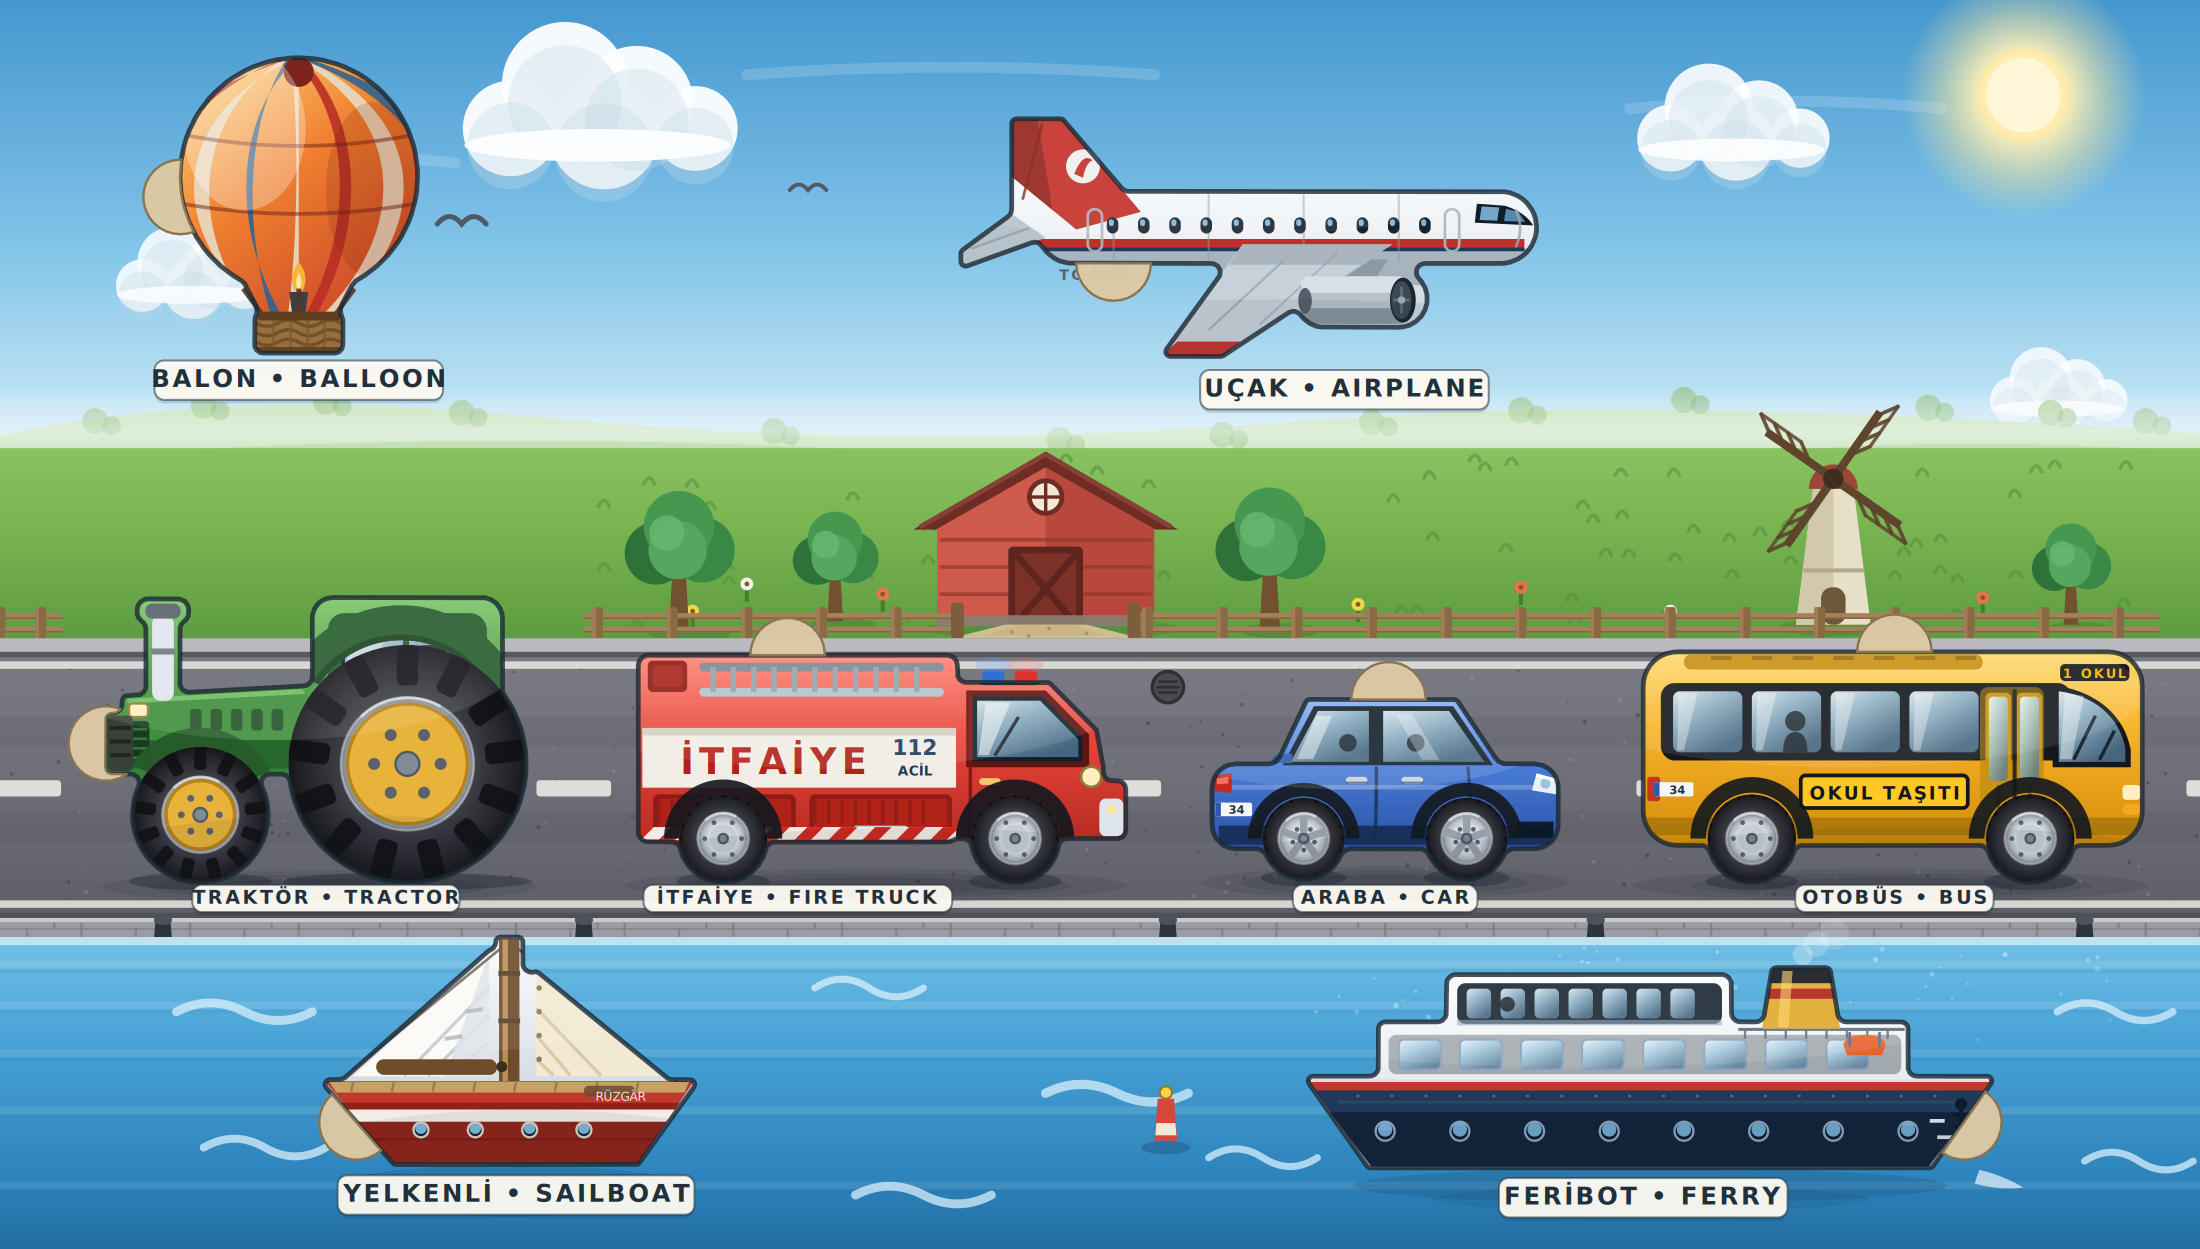
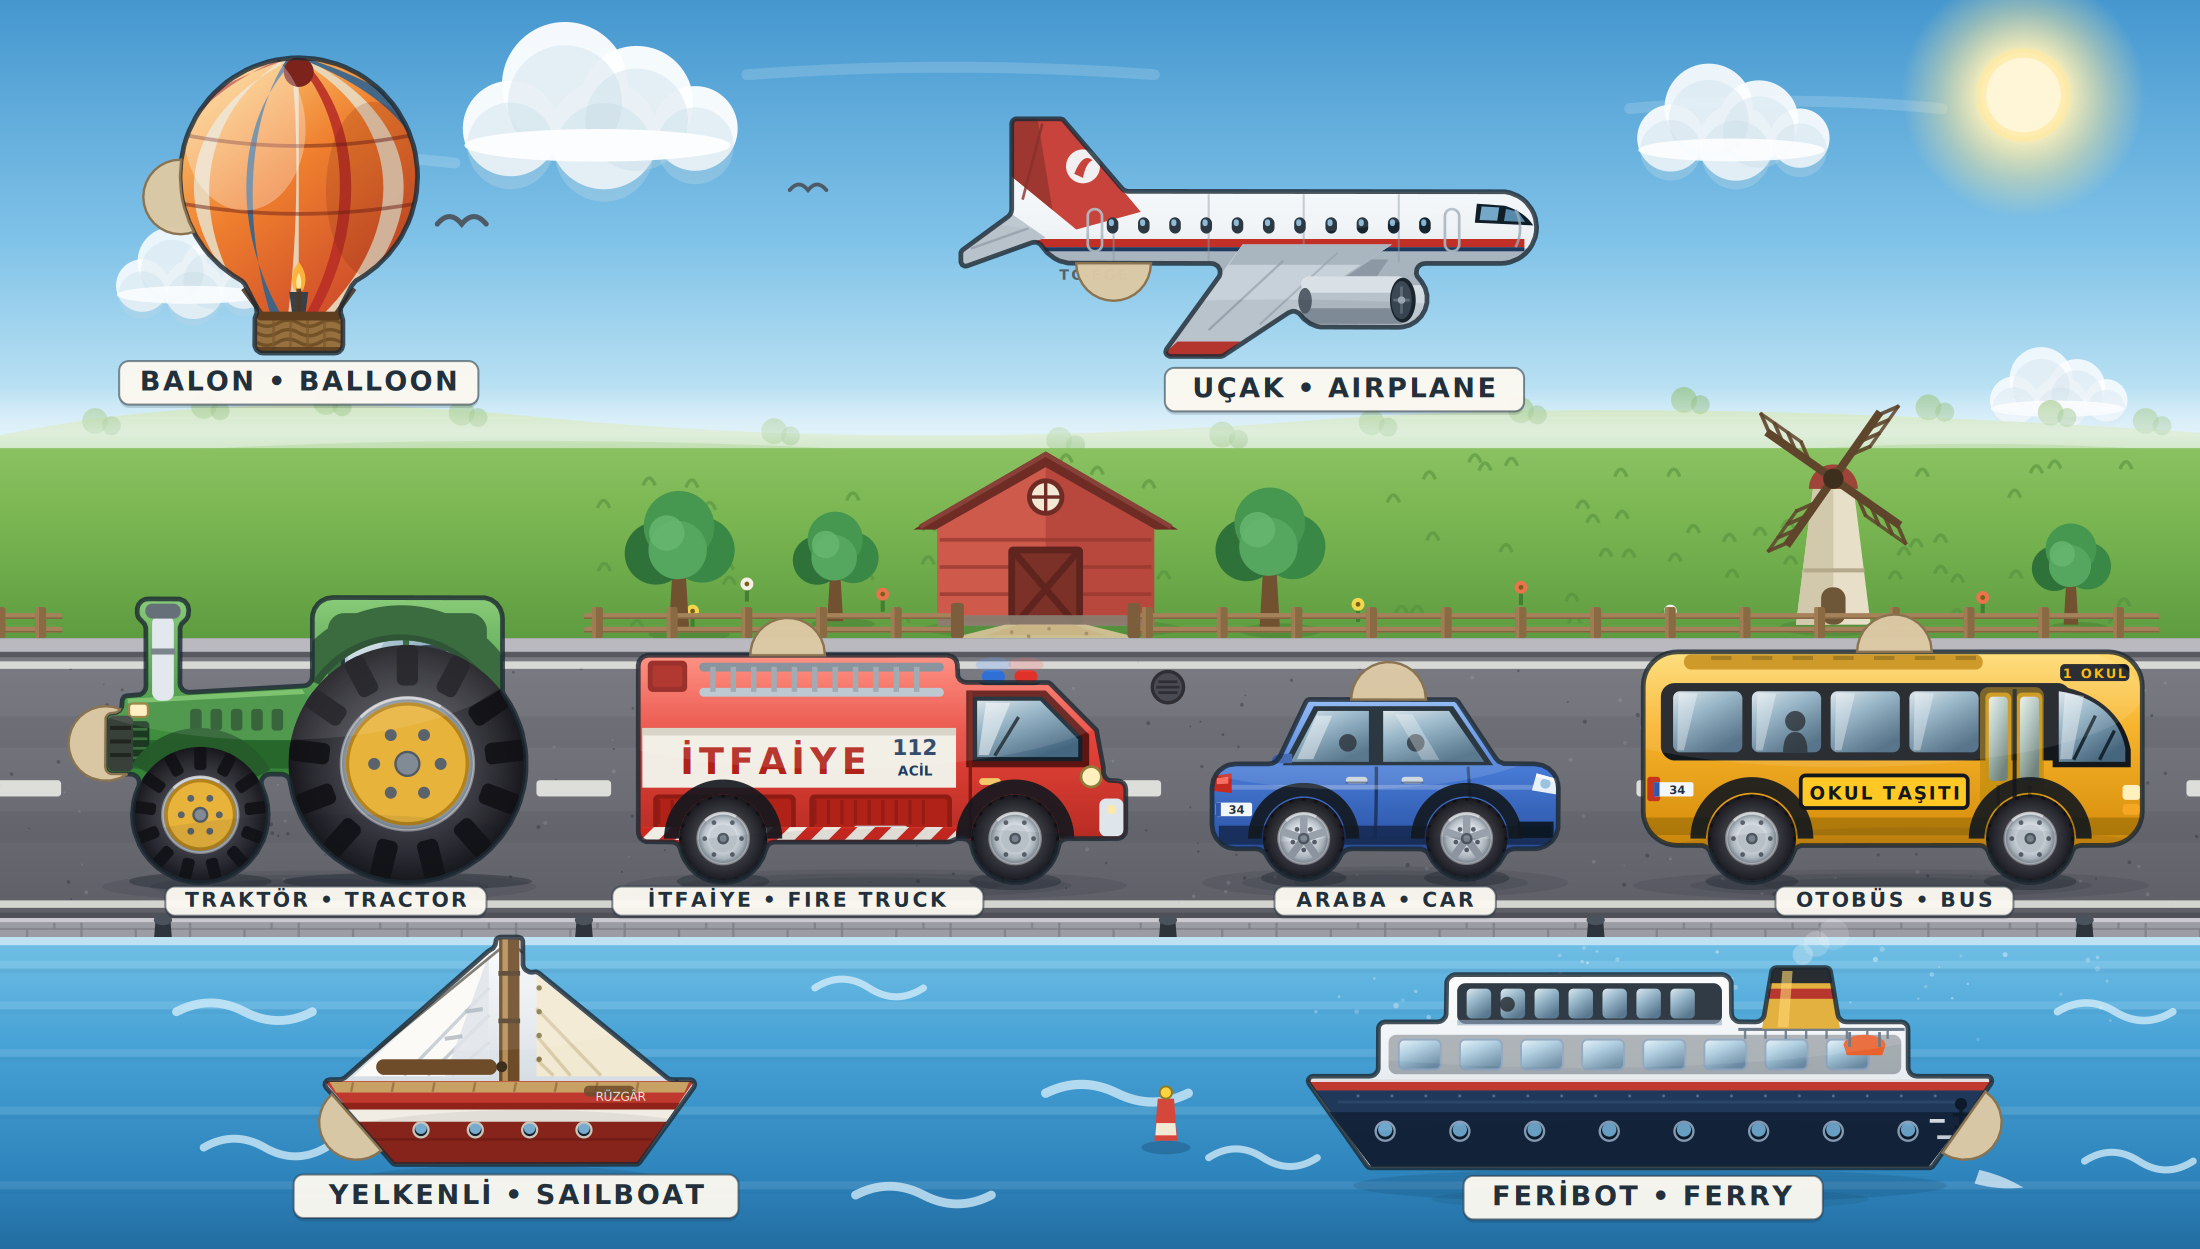
Etiket plakalarını genişlet, yazıları büyüt
Plaka genişlik katsayısı 0.60 -> 0.70 ve yan pay 5.2 -> 6.0 mm: yazı
artık plaka çerçevesine dayanmıyor (BALON etiketi sorunu). Boyutlar:
gökyüzü/deniz 3.6 -> 4.0 mm, yol şeridi 2.8 -> 3.0 mm. Kesim geometrisi
değişmedi.

Claude-Session: https://claude.ai/code/session_01CVTwu8w6PhS39mmYAULPaL

diff --git a/temalar/araclar/olustur.py b/temalar/araclar/olustur.py
@@ -203,14 +203,14 @@ def _yuva_hesapla():
 YUVALAR = _yuva_hesapla()
 
 ETIKETLER = {                     # Türkçe • İngilizce isimler (yuvalardan uzakta)
-    "balon":    ("BALON", "BALLOON", 42, 55.0, 3.6, 2.2),
-    "ucak":     ("UÇAK", "AIRPLANE", 196, 56.4, 3.6, 2.2),
-    "traktor":  ("TRAKTÖR", "TRACTOR", 46, 131.1, 2.8, 1.2),
-    "itfaiye":  ("İTFAİYE", "FIRE TRUCK", 115.5, 131.1, 2.8, 1.2),
-    "araba":    ("ARABA", "CAR", 202, 131.1, 2.8, 1.2),
-    "otobus":   ("OTOBÜS", "BUS", 277, 131.1, 2.8, 1.2),
-    "yelkenli": ("YELKENLİ", "SAILBOAT", 74, 175.0, 3.6, 2.2),
-    "feribot":  ("FERİBOT", "FERRY", 240, 175.4, 3.6, 2.2),
+    "balon":    ("BALON", "BALLOON", 42, 55.5, 4.0, 2.4),
+    "ucak":     ("UÇAK", "AIRPLANE", 196, 56.5, 4.0, 2.4),
+    "traktor":  ("TRAKTÖR", "TRACTOR", 46, 131.55, 3.0, 1.3),
+    "itfaiye":  ("İTFAİYE", "FIRE TRUCK", 115.5, 131.55, 3.0, 1.3),
+    "araba":    ("ARABA", "CAR", 202, 131.55, 3.0, 1.3),
+    "otobus":   ("OTOBÜS", "BUS", 277, 131.55, 3.0, 1.3),
+    "yelkenli": ("YELKENLİ", "SAILBOAT", 74, 175.3, 4.0, 2.4),
+    "feribot":  ("FERİBOT", "FERRY", 240, 175.5, 4.0, 2.4),
 }
 
 # ---------------------------------------------------------------- doğrulama
@@ -393,7 +393,7 @@ def teker(e, cx, cy, r, stil="araba"):
 def etiket(e, x, y, tr, en, boyut=3.0, pad_y=2.2):
     """Krem plaka üstünde koyu parça adı: TÜRKÇE • İNGİLİZCE."""
     metin = f"{tr} • {en}"
-    w = len(metin) * boyut * 0.60 + (len(metin) - 1) * 0.35 + 5.2
+    w = len(metin) * boyut * 0.70 + (len(metin) - 1) * 0.35 + 6.0
     h = boyut + pad_y
     cy = y - 0.28 * boyut
     e.append(_el("rect", x=x - w / 2, y=cy - h / 2 + 0.5, width=w, height=h, rx=1.4,
